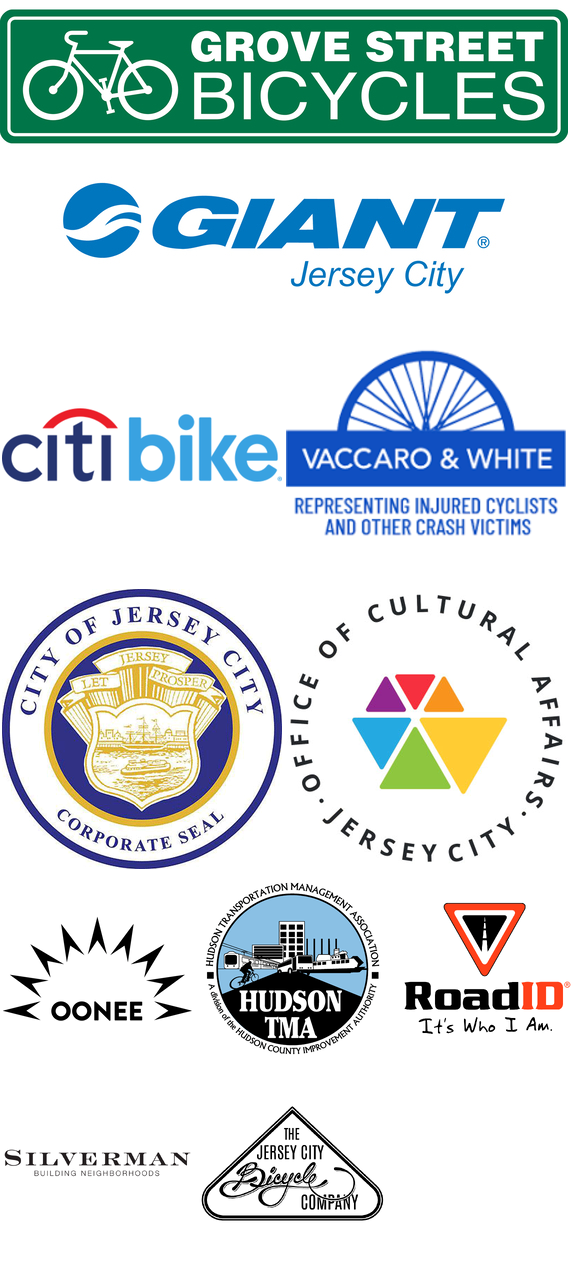
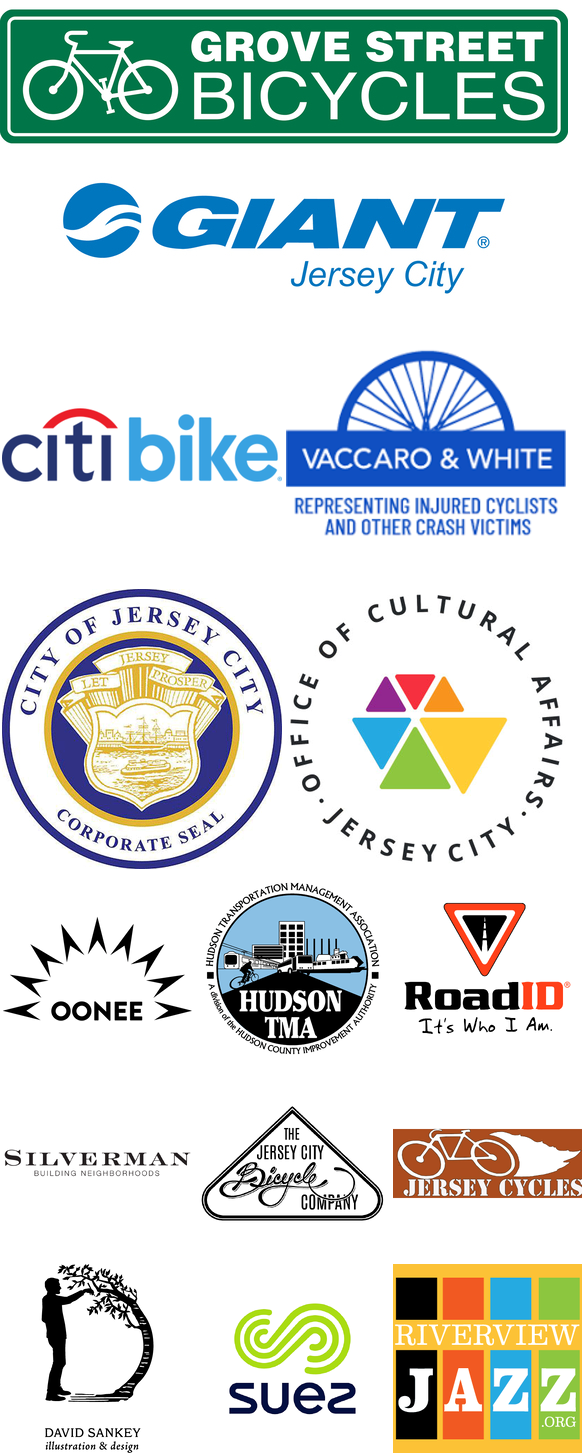
add sponsors

diff --git a/pages/support/sponsors.tsx b/pages/support/sponsors.tsx
@@ -83,6 +83,7 @@ export function SponsorsList() {
                 { href: "https://www.facebook.com/jerseycyclesllc/", src: "/files/JerseyCyclesLogo_square.jpg", alt: "Jersey Cycles", },
                 { href: "https://www.mysuezwater.com/", src: "/files/suez-vertical_square.png", alt: "Suez Water", },
                 { href: "https://davidsankey.net/", src: "/files/davidsankey_square.png", alt: "David Sankey", },
+                { href: "https://riverviewjazz.org/jersey-city-jazz-festival", src: "/files/riverview-jazz_bg_square.png", alt: "Jersey City Jazz Festival", },
             ]}
         />
     </>
